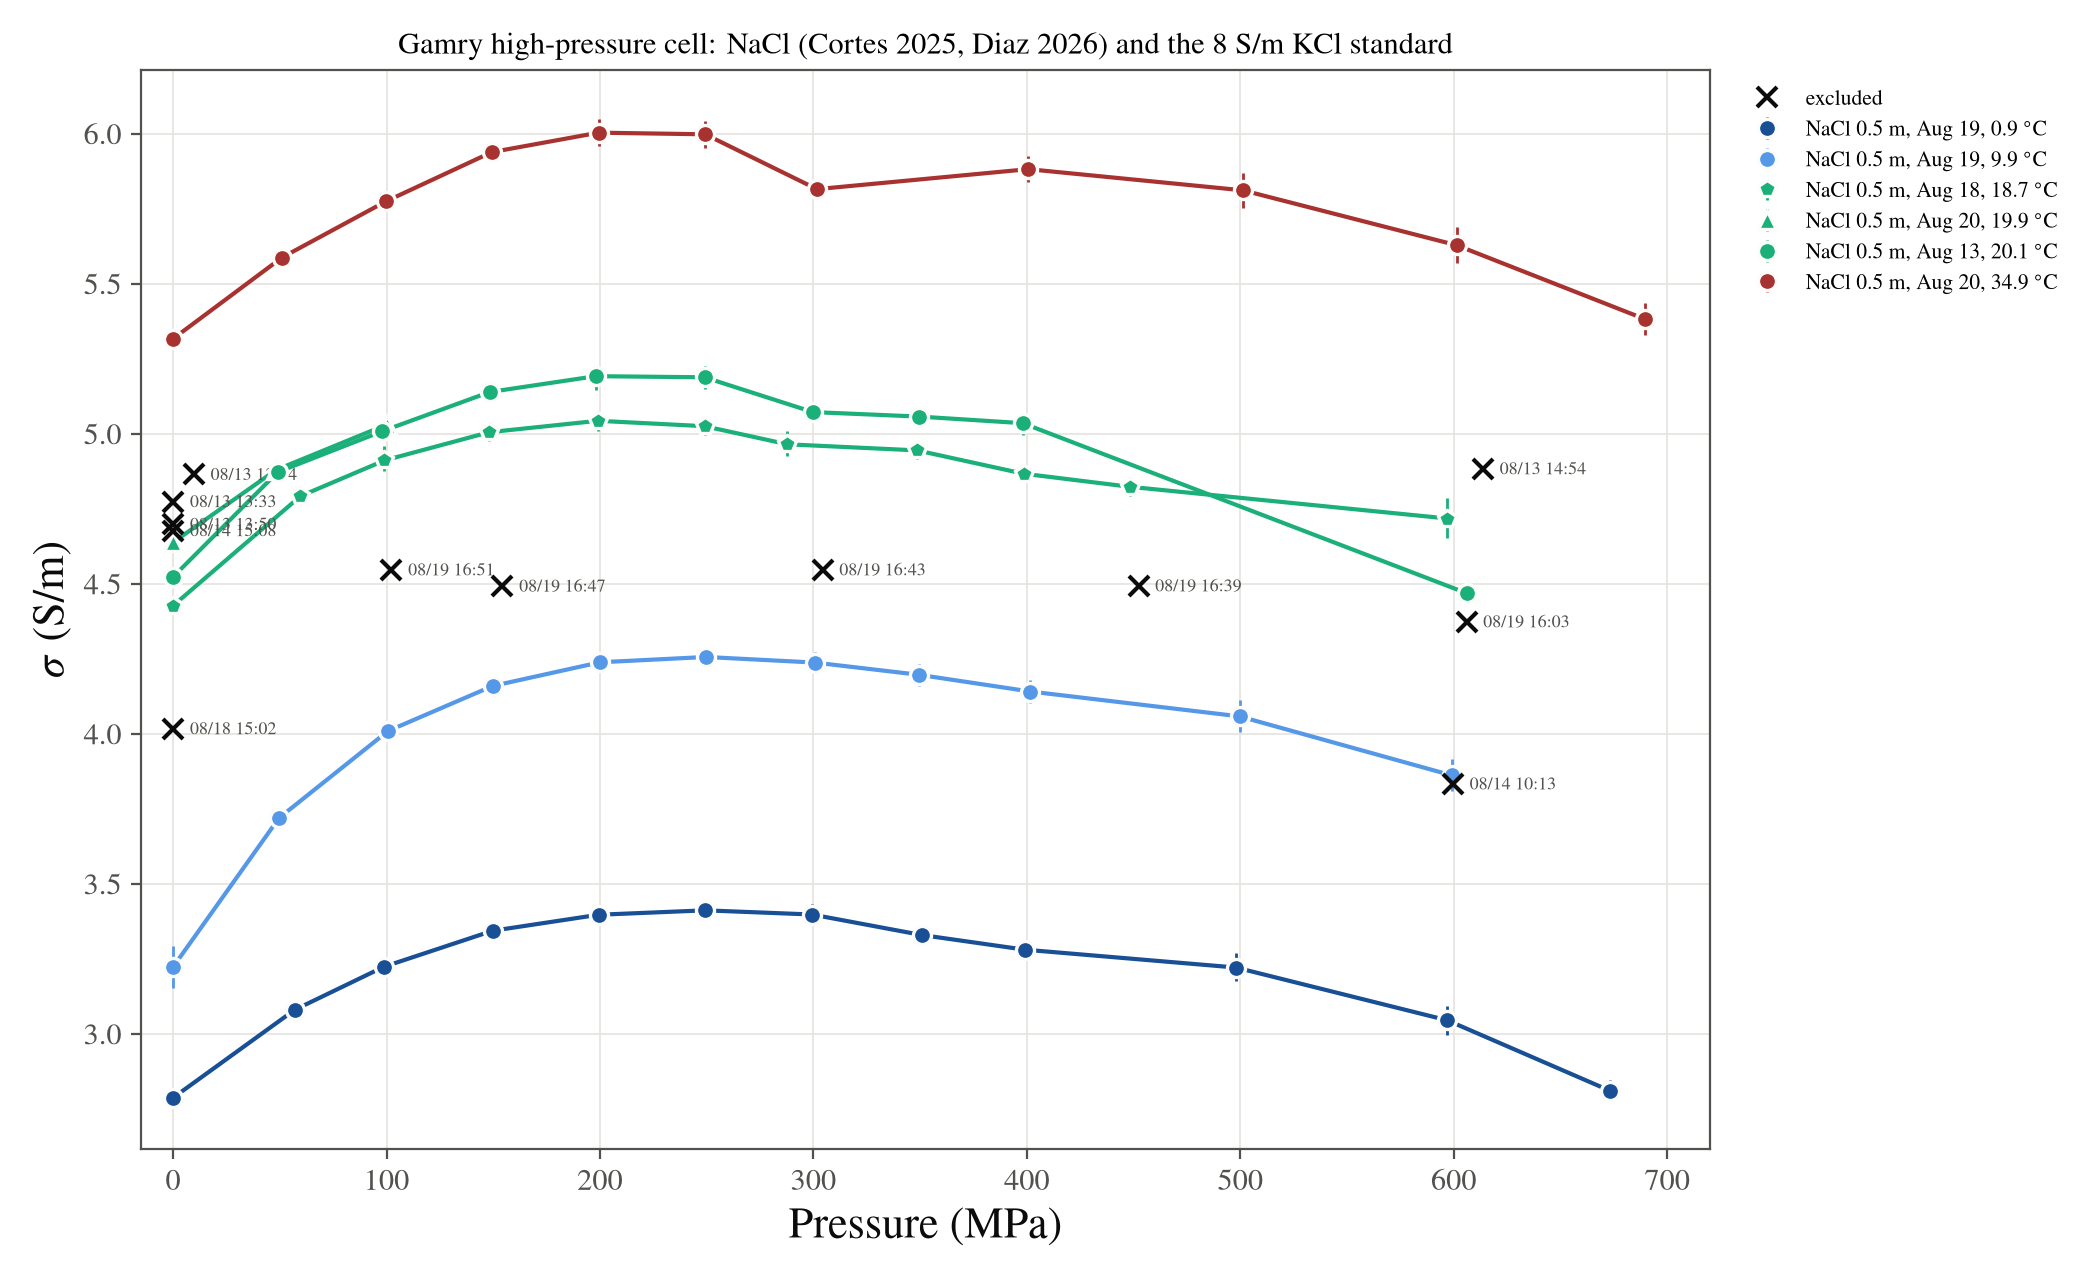
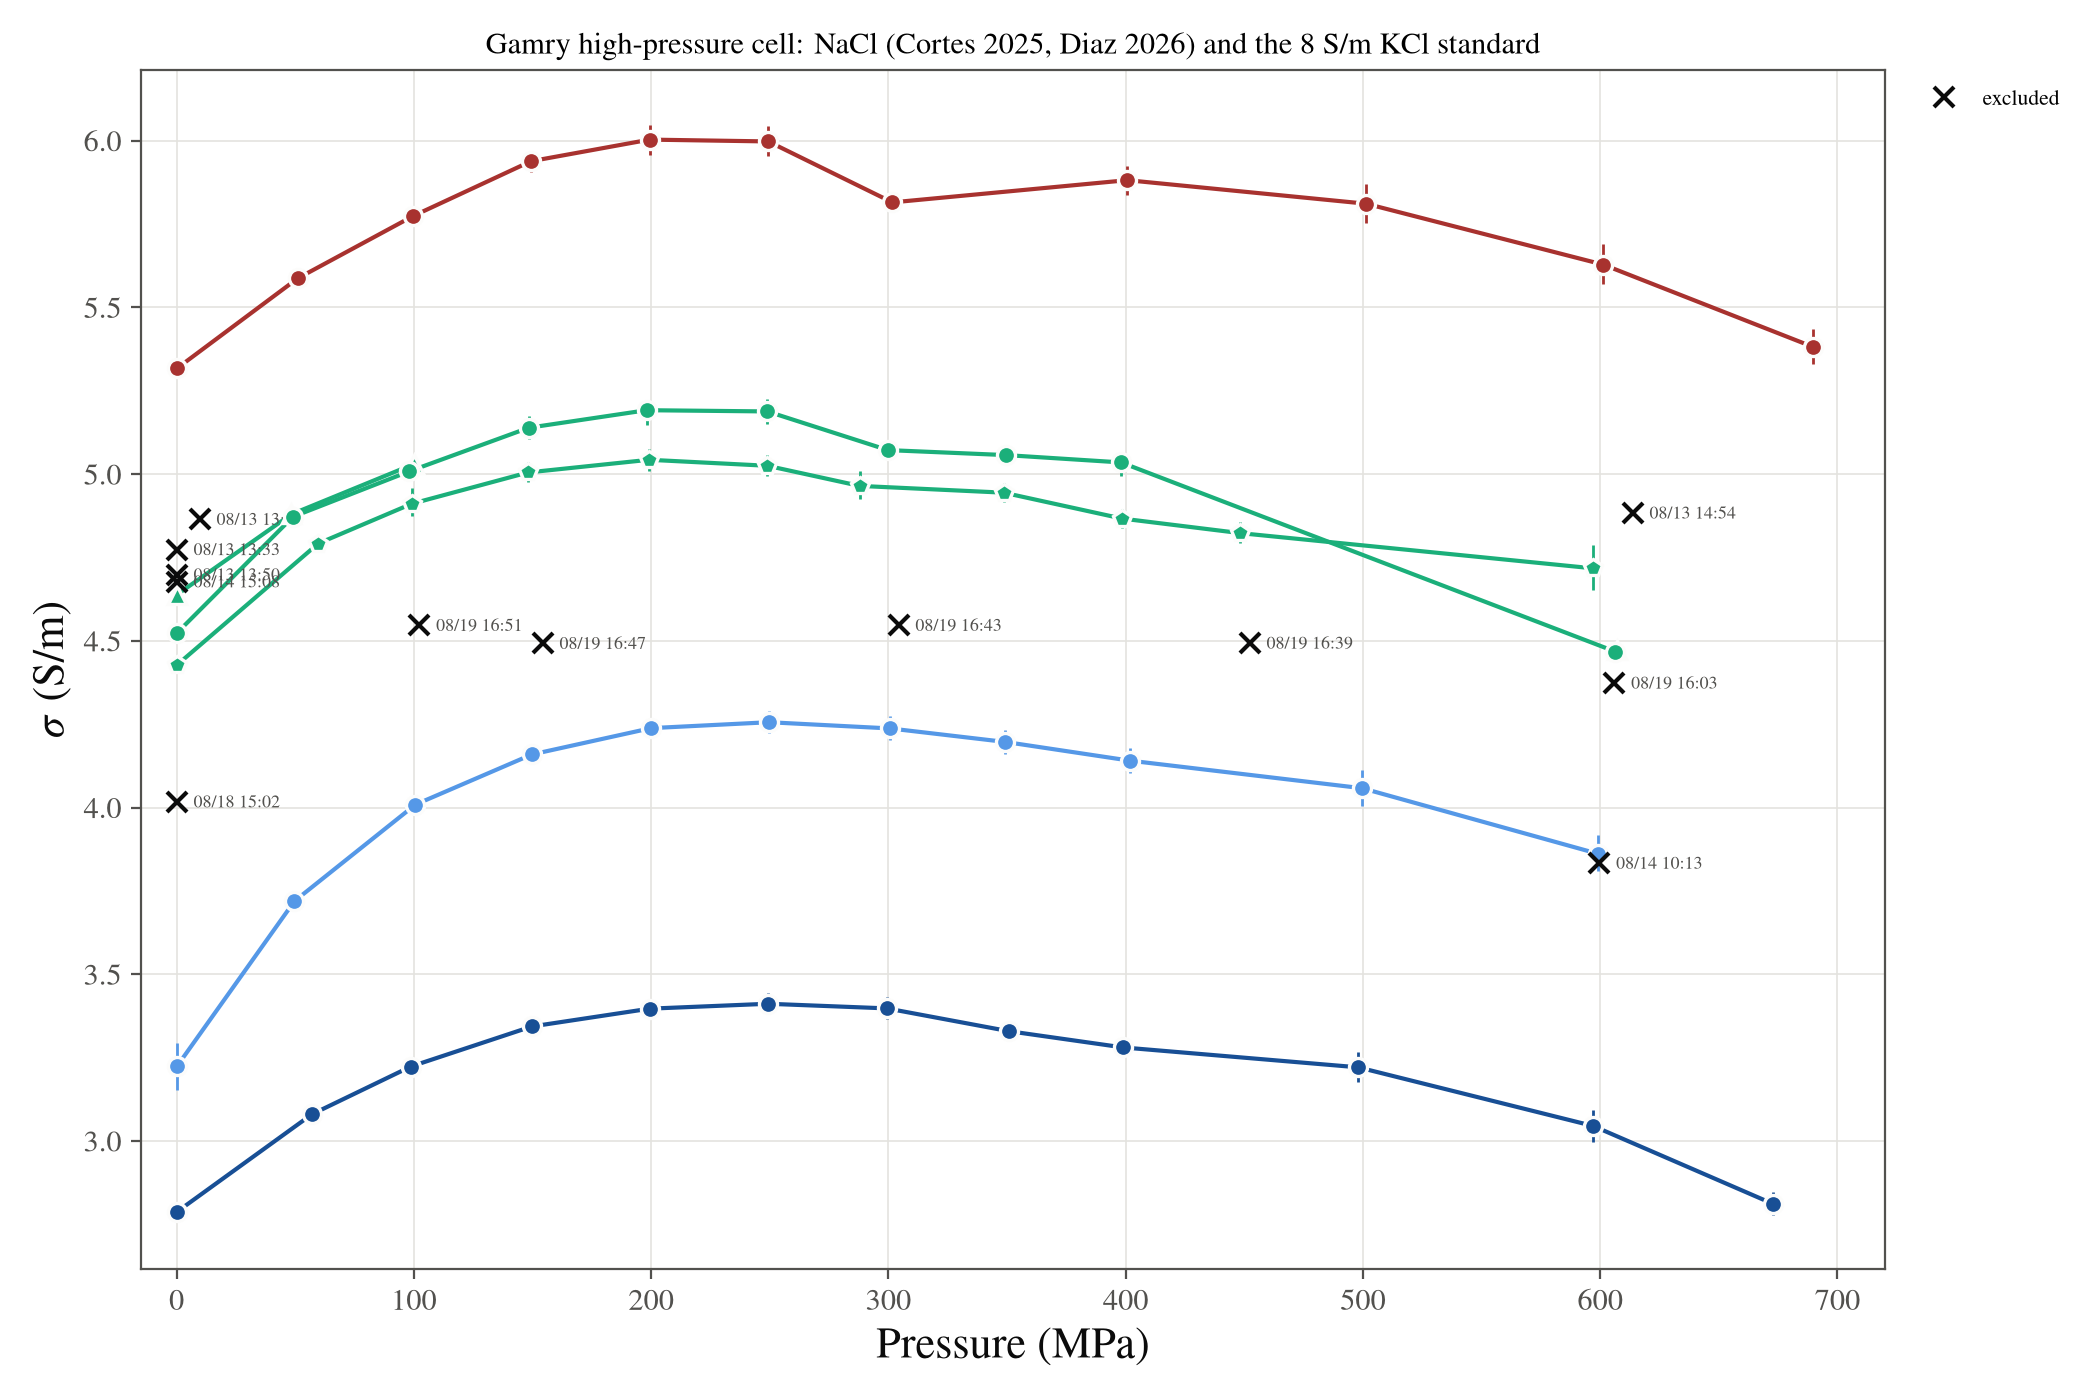
sigma(P) figure: label curves in place instead of a side legend
Each curve is named at its high-pressure end, with a swatch in its colour
and line style; labels that would collide are spread apart with dotted
leaders. A small key inside the axes covers only the line and marker
styles.

diff --git a/cortes2026/plot_nacl_sigma_P.py b/cortes2026/plot_nacl_sigma_P.py
@@ -240,10 +240,38 @@ def _style():
     })
 
 
+def _spread(ys, gap):
+    """Shift sorted label positions apart by at least `gap`, keeping order."""
+    order = np.argsort(ys)
+    out = np.array(ys, dtype=float)
+    for k in range(1, len(order)):
+        i, j = order[k], order[k - 1]
+        out[i] = max(out[i], out[j] + gap)
+    return out
+
+
+def label_ends(ax, items, x_text, gap):
+    """Direct labels: text at x_text, y spread apart, a thin leader to (x, y).
+
+    items: list of (x_end, y_end, text, colour)."""
+    if not items:
+        return
+    ys = _spread([it[1] for it in items], gap)
+    for (x, y, text, col, *ls), yt in zip(items, ys):
+        # Dotted grey leader from the curve end; a short swatch in the curve's
+        # colour and line style next to the text (no marker, so it can't be
+        # mistaken for a data point)
+        ax.plot([x, x_text - 16], [y, yt], ':', color='#9a9a9a', lw=0.7, zorder=1)
+        ax.plot([x_text - 15, x_text - 3], [yt, yt], ls[0] if ls else '-', color=col,
+                lw=2, zorder=5, clip_on=False)
+        ax.text(x_text, yt, text, fontsize=7.6, color='#0b0b0b', va='center', ha='left', zorder=5)
+
+
 def plot(st, path, show_excluded=False, recent=None):
-    fig, ax = plt.subplots(figsize=(10.5, 6.4))
+    fig, ax = plt.subplots(figsize=(10.5, 7.0))
+    ends, pan_ends = [], []
     if recent is not None:
-        _plot_pan(ax, st, recent)
+        pan_ends = _plot_pan(ax, st, recent)
     keep = st[st.excluded == '']
     for run, (col, mk) in RUNS.items():
         r = keep[keep.run.map(lambda x: x == run)].sort_values('P_MPa')
@@ -258,8 +286,8 @@ def plot(st, path, show_excluded=False, recent=None):
             if P[i + 1] - P[i] <= MAX_GAP_MPA or (run in ALWAYS_CONNECT and i == len(P) - 2):
                 ax.plot(P[i:i + 2], S[i:i + 2], '-', color=col, lw=1.5, zorder=2)
         ax.errorbar(r.P_MPa, r.sigma_Sm, yerr=yerr, fmt=mk, color=col, ms=6.5,
-                    mec='#fcfcfb', mew=1.2, elinewidth=1, capsize=0, zorder=3,
-                    label=r'NaCl 0.5 m, ' + label + r' $^\circ$C')
+                    mec='#fcfcfb', mew=1.2, elinewidth=1, capsize=0, zorder=3)
+        ends.append((P[-1], S[-1], r'NaCl 0.5 m, ' + label + r' $^\circ$C', col))
     if show_excluded:
         ex = st[st.excluded != '']
         ax.plot(ex.P_MPa, ex.sigma_Sm, 'x', color='#0b0b0b', ms=7, mew=1.5,
@@ -270,15 +298,28 @@ def plot(st, path, show_excluded=False, recent=None):
                         fontsize=6.5, color='#52514e')
     ax.set_xlabel('Pressure (MPa)')
     ax.set_ylabel(r'$\sigma$ (S/m)')
-    ax.set_xlim(-15, 720)
     ax.grid(True, color='#e4e3df', lw=0.6)
     ax.set_axisbelow(True)
+    recent_ends = []
     if recent is not None:
-        _plot_recent(ax, recent)
-        _plot_adams(ax)
+        ends += pan_ends
+        recent_ends = _plot_recent(ax, recent)
+        ends.append(_plot_adams(ax))
     ax.set_title(r'Gamry high-pressure cell: NaCl (Cortes 2025, Diaz 2026) and the 8 S/m KCl standard',
                  fontsize=11)
-    ax.legend(fontsize=7.8, frameon=False, loc='upper left', bbox_to_anchor=(1.01, 1.0))
+    if show_excluded:
+        ax.set_xlim(-15, 720)
+        ax.legend(fontsize=7.8, frameon=False, loc='upper left', bbox_to_anchor=(1.01, 1.0))
+    else:
+        # Curves ending above 400 MPa: labels to the right of 700 MPa. The
+        # 2026 runs (ending near 200 MPa): labels in the open space beside them.
+        far = [e for e in ends if e[0] > 400]
+        near = [e for e in ends if e[0] <= 400] + recent_ends
+        ax.set_xlim(-15, 960)
+        ax.set_xticks(np.arange(0, 701, 100))
+        label_ends(ax, far, 712, gap=0.16)
+        label_ends(ax, near, 240, gap=0.16)
+        _style_key(ax)
     fig.tight_layout()
     fig.savefig(path, dpi=200)
     if path.endswith('.png') and not show_excluded:
@@ -286,7 +327,23 @@ def plot(st, path, show_excluded=False, recent=None):
     plt.close(fig)
 
 
+def _style_key(ax):
+    """Key for line and marker styles only; curve identities are labelled in place."""
+    from matplotlib.lines import Line2D
+    g = '#52514e'
+    h = [Line2D([], [], ls='--', color=g, lw=1),
+         Line2D([], [], ls='-', color=g, lw=2.6, alpha=0.35),
+         Line2D([], [], ls='', marker='s', color=g, ms=6),
+         Line2D([], [], ls='', marker='s', color=g, mfc='#fcfcfb', ms=6),
+         Line2D([], [], ls='', marker='X', color=g, ms=7)]
+    ax.legend(h, ['Pan et al. (2021), extrapolated', 'Pan et al. (2021), in its P--T range',
+                  'KCl standard (squares)', 'hollow: decompression',
+                  r'Adams \& Hall (1931), $\sigma_0$ from MC12'],
+              fontsize=7.4, frameon=False, loc='upper right')
+
+
 def _plot_recent(ax, rec):
+    ends = []
     for label, _, comp, mk, _ in RUNS_2026:
         r = rec[rec.run == label]
         col = temp_color(r.T_C.mean())
@@ -296,10 +353,10 @@ def _plot_recent(ax, rec):
             ax.errorbar(q.P_MPa, q.sigma_Sm, yerr=[q.sigma_Sm - q.sigma_lo, q.sigma_hi - q.sigma_Sm],
                         fmt=mk, color=col, mfc='#fcfcfb' if desc else col,
                         mec=col if desc else '#fcfcfb', ms=6, mew=1.2, elinewidth=1,
-                        capsize=0, zorder=3,
-                        label=None if desc else f'{label}, {r.T_C.mean():.1f} $^\\circ$C')
-    ax.plot([], [], 's', color='#52514e', mfc='#fcfcfb', ms=6,
-            label='hollow: decompression (2026)')
+                        capsize=0, zorder=3)
+        top = r.loc[r.P_MPa.idxmax()]
+        ends.append((top.P_MPa, top.sigma_Sm, f'{label}, {r.T_C.mean():.1f} $^\\circ$C', col))
+    return ends
 
 
 def load_adams_hall():
@@ -322,8 +379,10 @@ def _plot_adams(ax):
         q = a[a.descent == desc]
         ax.plot(q.P_MPa, q.sigma_Sm, 'X', color=col, ms=7.5,
                 mfc='#fcfcfb' if desc else col, mec=col if desc else '#fcfcfb', mew=1.2,
-                zorder=3, label=None if desc else
-                fr'NaCl 0.505 m, Adams \& Hall 1931, 25.0 $^\circ$C ($\sigma_0$ = MC12, {sigma0:.2f} S/m)')
+                zorder=3)
+    top = up.iloc[-1]
+    return (top.P_MPa, top.sigma_Sm,
+            fr'NaCl 0.505 m, Adams \& Hall 1931, 25.0 $^\circ$C ($\sigma_0$ {sigma0:.2f} S/m)', col)
 
 
 def _plot_pan(ax, st, rec):
@@ -334,7 +393,7 @@ def _plot_pan(ax, st, rec):
            if not 18 < T < 19.5]  # one curve for the three ~20 C days
     iso += [(0.9, r.T_C.mean(), temp_color(r.T_C.mean()))
             for _, r in rec[rec.comp == 'NaCl'].groupby('run')]
-    seen = set()
+    seen, ends = set(), []
     for m, T, col in iso:
         key = (m, round(T))
         if key in seen:
@@ -347,10 +406,8 @@ def _plot_pan(ax, st, rec):
         ax.plot(Pm, sig, '--', color=col, lw=1, alpha=0.75, zorder=1)
         ax.plot(np.where(inside, Pm, np.nan), np.where(inside, sig, np.nan), '-',
                 color=col, lw=2.6, alpha=0.35, zorder=1)
-    ax.plot([], [], '--', color='#52514e', lw=1,
-            label='Pan et al. (2021), extrapolated')
-    ax.plot([], [], '-', color='#52514e', lw=2.6, alpha=0.35,
-            label='Pan et al. (2021), in envelope')
+        ends.append((Pm[-1], sig[-1], f'Pan et al. 2021, {m} m, {T:.1f} $^\\circ$C', col, '--'))
+    return ends
 
 
 def main():
